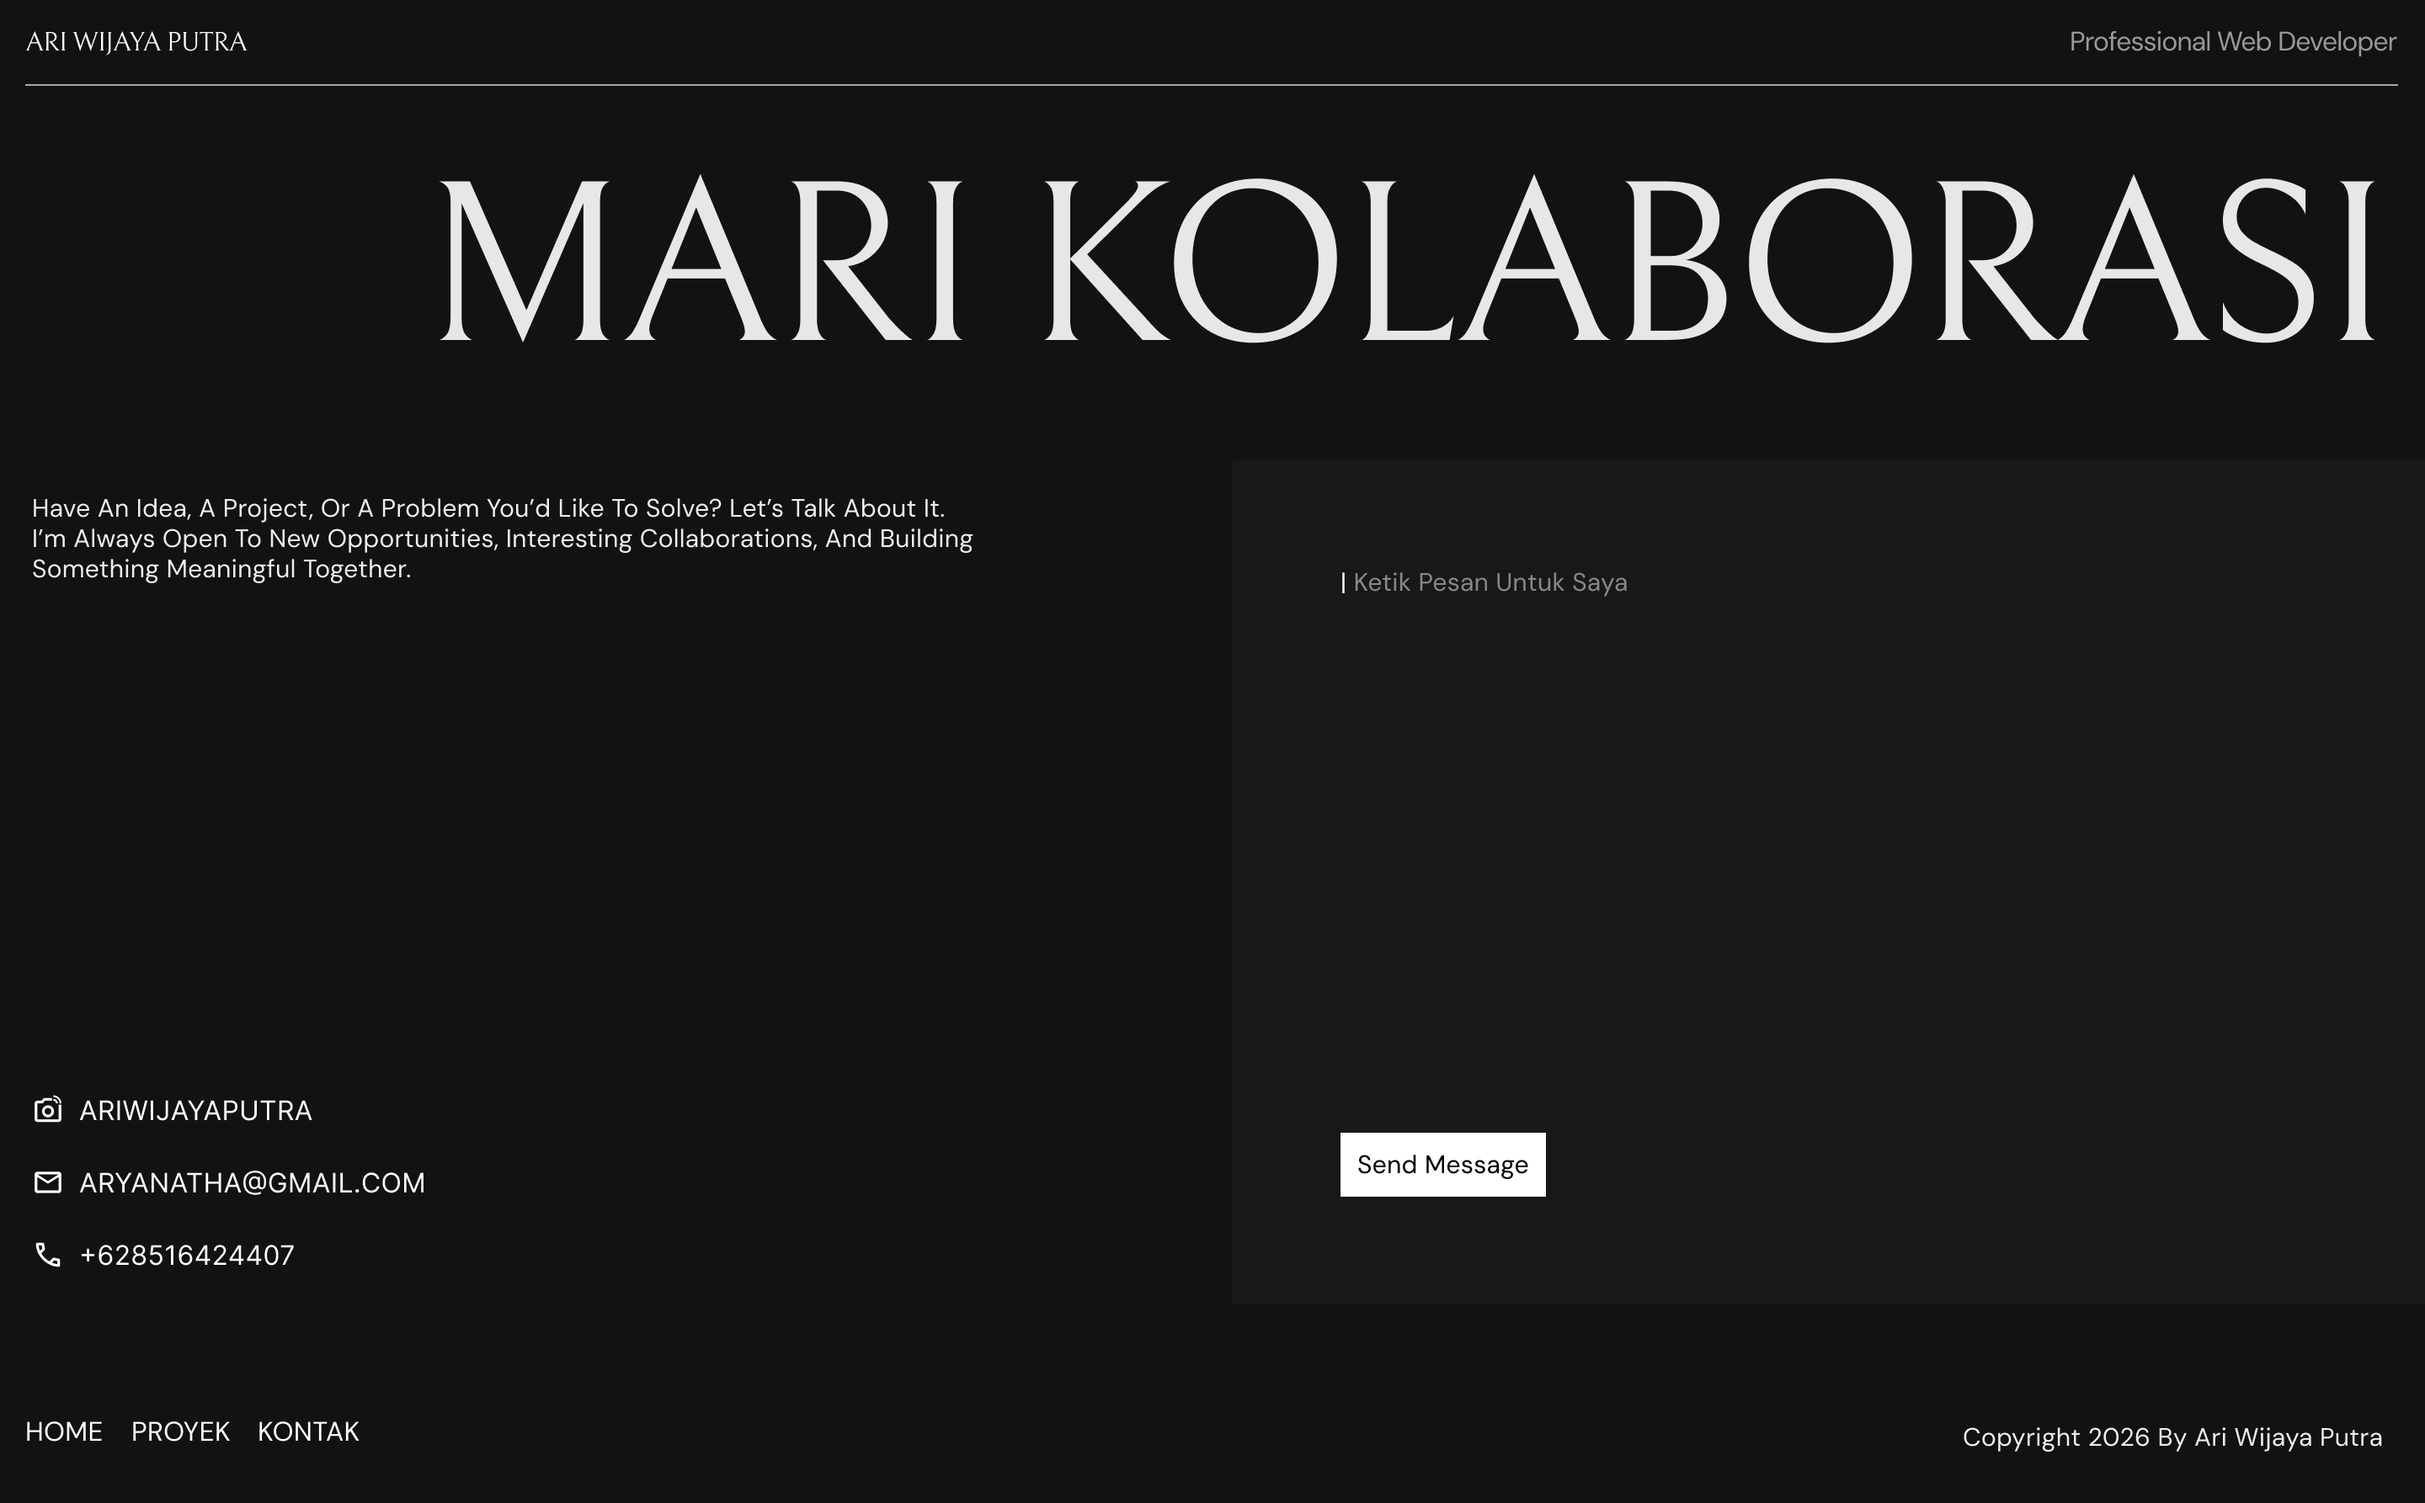
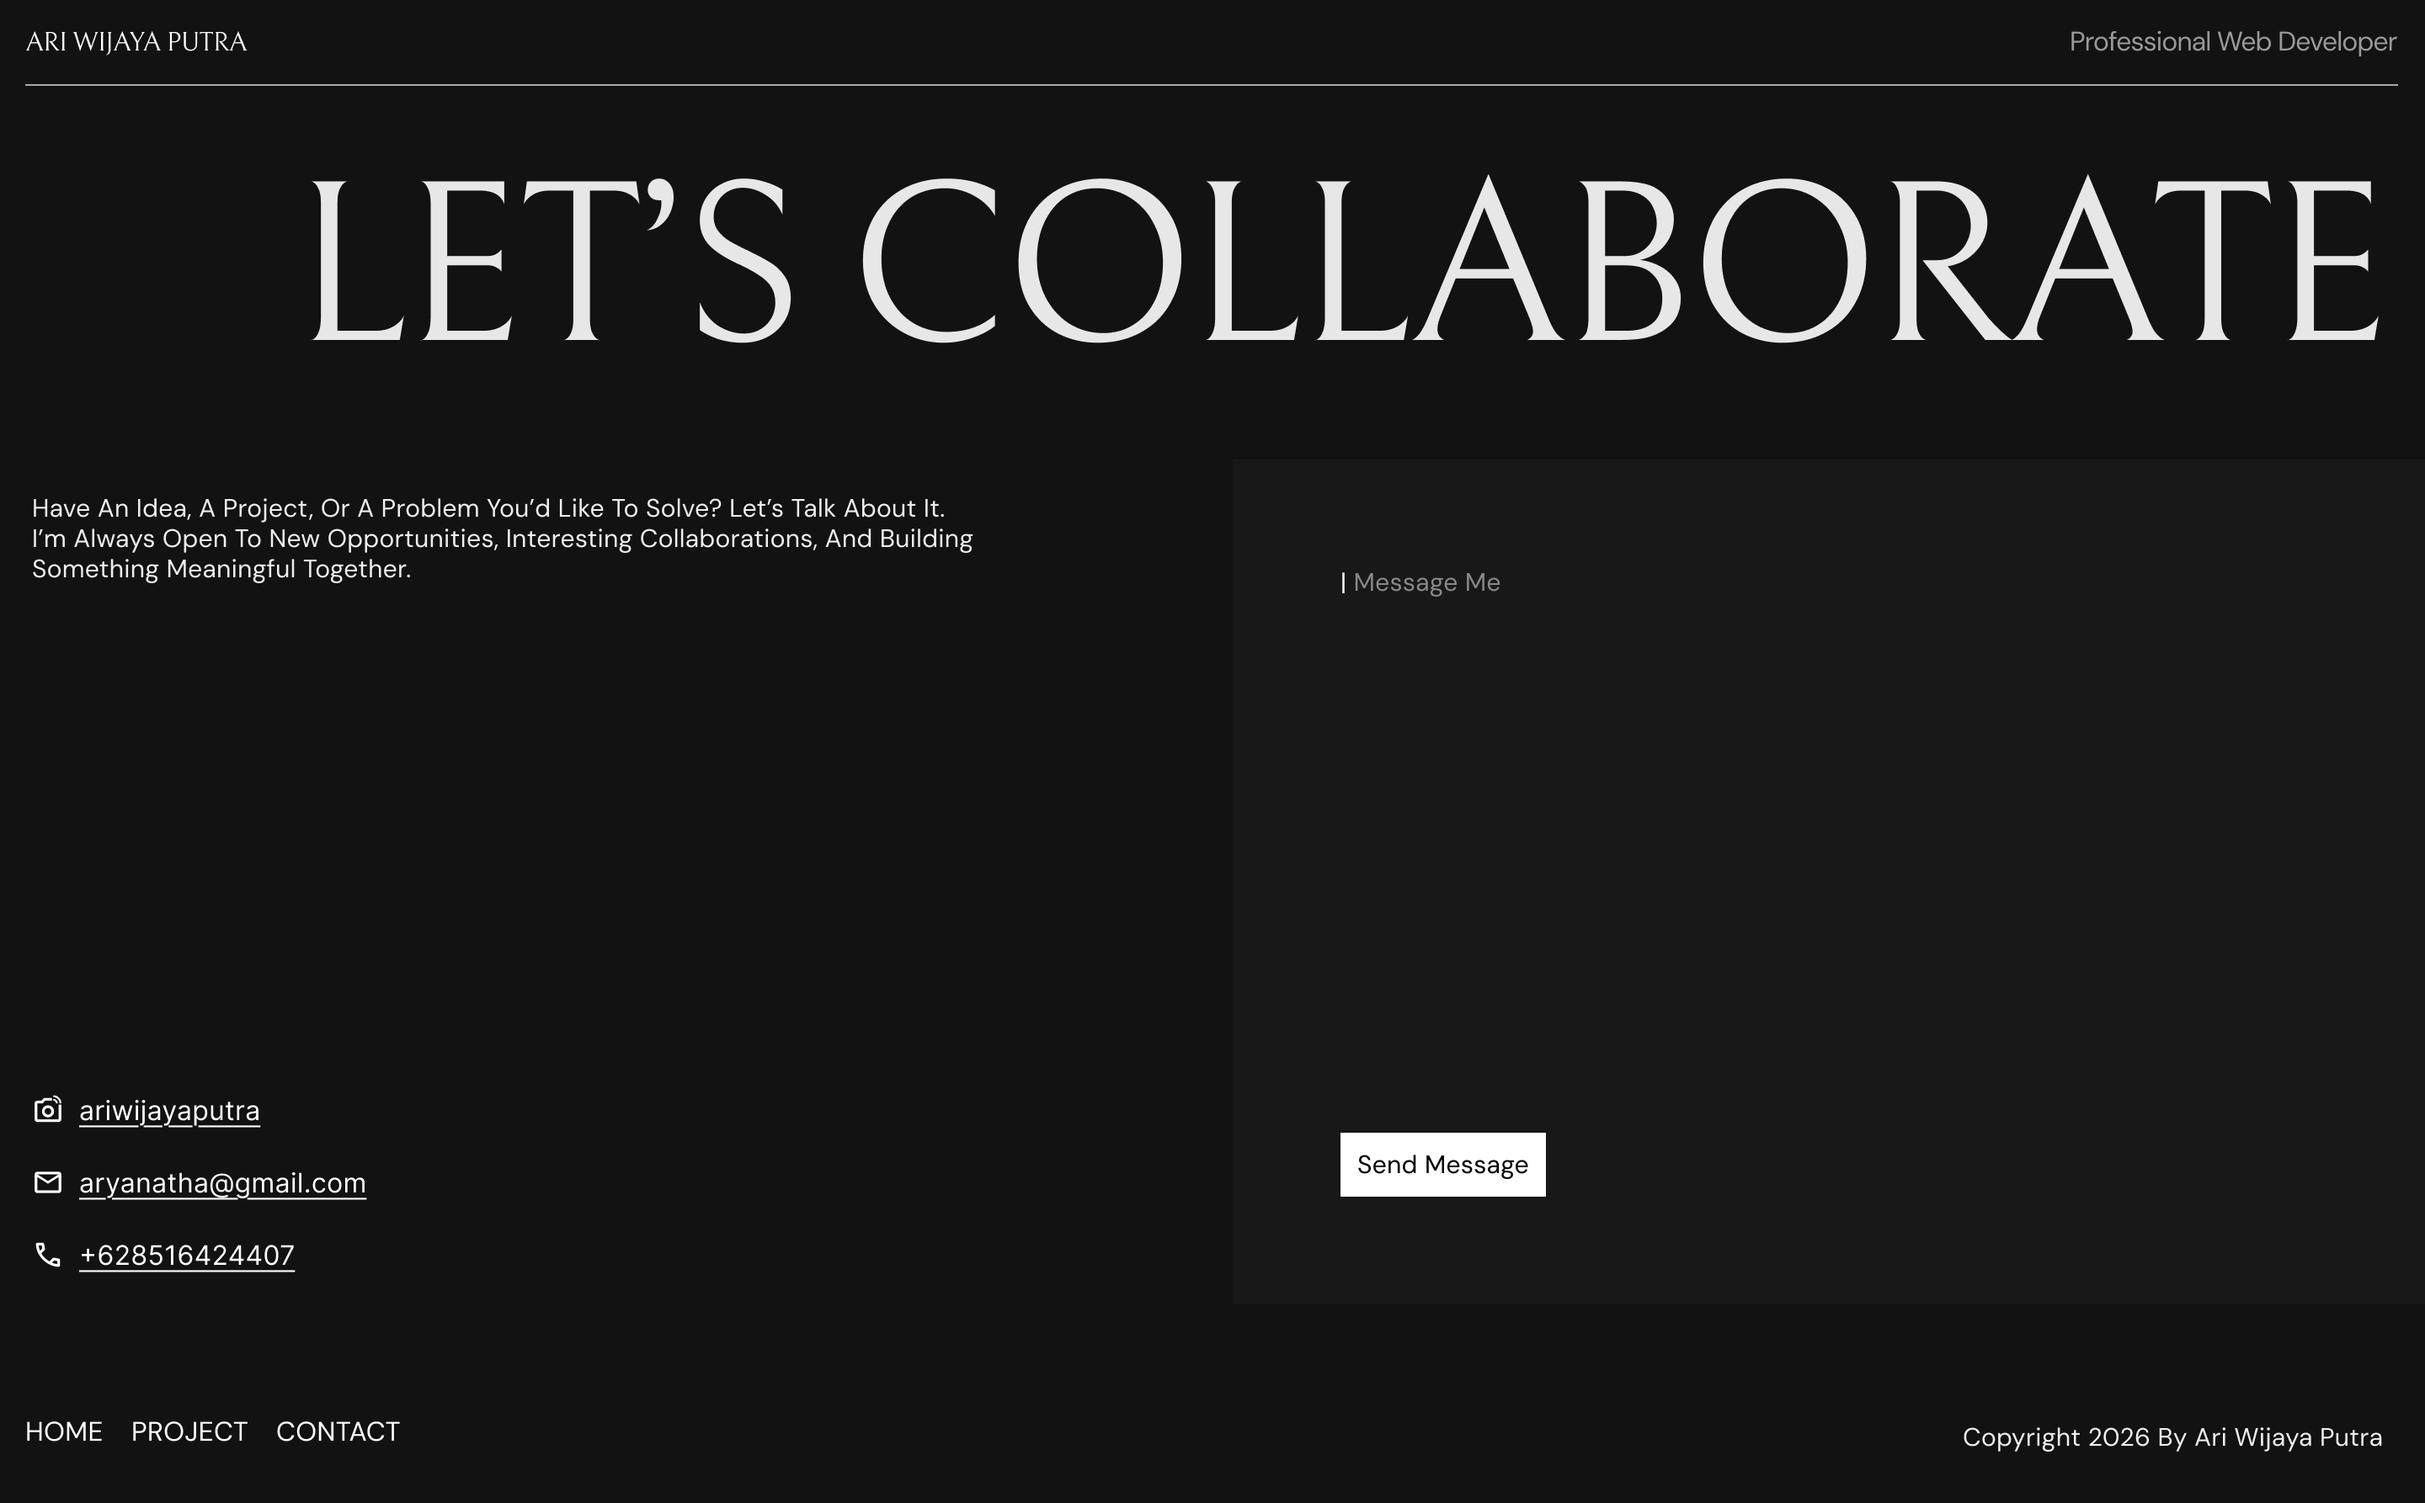
feat: add contact section

diff --git a/components/contact.tsx b/components/contact.tsx
@@ -1,0 +1,117 @@
+const links = [
+  {
+    label: "ariwijayaputra",
+    href: "https://instagram.com/ariwijayaputra",
+    icon: (
+      <>
+        <rect x="3" y="3" width="18" height="18" rx="5" />
+        <circle cx="12" cy="12" r="4" />
+        <path d="M17.5 6.5h.01" />
+      </>
+    ),
+  },
+  {
+    label: "aryanatha@gmail.com",
+    href: "mailto:aryanatha@gmail.com",
+    icon: <path d="M2.5 5h19v14h-19zm0 0 9.5 8 9.5-8" />,
+  },
+  {
+    label: "+628516424407",
+    href: "tel:+628516424407",
+    icon: (
+      <path d="M21.5 16.9v3a2 2 0 0 1-2.2 2 19.8 19.8 0 0 1-8.6-3.1 19.5 19.5 0 0 1-6-6A19.8 19.8 0 0 1 1.6 4.2 2 2 0 0 1 3.6 2h3a2 2 0 0 1 2 1.7c.1.9.4 1.8.7 2.7a2 2 0 0 1-.5 2.1L7.5 9.8a16 16 0 0 0 6 6l1.3-1.3a2 2 0 0 1 2.1-.4c.9.3 1.8.6 2.7.7a2 2 0 0 1 1.7 2z" />
+    ),
+  },
+];
+
+const nav = [
+  { id: "home", label: "Home" },
+  { id: "work", label: "Proyek" },
+  { id: "contact", label: "Kontak" },
+];
+
+// mobile stacks headline / text / form / links / copyright (rows placed explicitly, the
+// left column is display:contents there); desktop puts text + links left, form right
+export default function Contact() {
+  return (
+    <section
+      id="contact"
+      data-snap
+      className="page-grid min-h-(--section-h) grid-rows-[auto_auto_1fr_auto_auto] pt-9 pb-5 text-body lg:grid-rows-[auto_1fr_auto] lg:pt-14 lg:pb-6"
+    >
+      <h2 className="col-span-full font-display text-display uppercase lg:text-right">
+        Mari kolaborasi
+      </h2>
+
+      <div className="contents lg:col-span-5 lg:row-start-2 lg:mt-10 lg:flex lg:flex-col lg:justify-between lg:py-5">
+        <p className="col-span-full row-start-2 mt-10 lg:mt-0">
+          Punya ide, proyek, atau masalah yang ingin dipecahkan? Mari kita
+          bicarakan. Saya selalu terbuka untuk peluang baru, kolaborasi yang
+          menarik, dan membangun sesuatu yang bermakna bersama.
+        </p>
+
+        <address className="col-span-full row-start-4 mt-10 flex flex-col items-start gap-5 text-link text-dim not-italic lg:gap-6 lg:text-paper">
+          {links.map((l) => (
+            <a
+              key={l.href}
+              href={l.href}
+              {...(l.href.startsWith("http") && { target: "_blank", rel: "noreferrer" })}
+              className="flex items-center gap-3 transition-colors hover:text-white"
+            >
+              <svg
+                aria-hidden
+                viewBox="0 0 24 24"
+                fill="none"
+                stroke="currentColor"
+                strokeWidth={1.75}
+                strokeLinecap="round"
+                strokeLinejoin="round"
+                className="size-[1em] shrink-0"
+              >
+                {l.icon}
+              </svg>
+              <span className="underline decoration-1 underline-offset-4">{l.label}</span>
+            </a>
+          ))}
+        </address>
+      </div>
+
+      {/* ponytail: native mailto form, no backend; swap for an API route if a mail client isn't enough.
+          GET + mailto sends the fields as ?subject=&body= (spec encodes spaces as %20) */}
+      <form
+        action="mailto:aryanatha@gmail.com"
+        method="get"
+        className="col-span-full row-start-3 -mr-(--margin) mt-10 flex flex-col gap-5 bg-panel px-(--contact-pad) py-8 text-nav lg:col-span-6 lg:col-start-7 lg:row-start-2 lg:py-16"
+      >
+        <input type="hidden" name="subject" value="Kolaborasi" />
+        <textarea
+          name="body"
+          required
+          aria-label="Pesan"
+          placeholder="Ketik pesan untuk saya"
+          className="min-h-10 flex-1 resize-none bg-transparent text-white caret-white outline-none placeholder:text-mute"
+        />
+        <button
+          type="submit"
+          className="h-10 self-start bg-white px-3 text-ink transition-colors hover:bg-paper"
+        >
+          Kirim Pesan
+        </button>
+      </form>
+
+      <footer className="col-span-full row-start-5 mt-5 grid grid-cols-subgrid items-baseline lg:row-start-3 lg:mt-16">
+        {/* mobile has the bottom bar instead */}
+        <nav aria-label="Navigasi footer" className="hidden gap-4 text-link uppercase lg:col-span-4 lg:flex">
+          {nav.map((n) => (
+            <a key={n.id} href={`#${n.id}`} className="transition-colors hover:text-white">
+              {n.label}
+            </a>
+          ))}
+        </nav>
+        <p className="col-span-full text-mute lg:col-span-4 lg:col-start-9 lg:text-right lg:text-paper">
+          Copyright 2026 By Ari Wijaya Putra
+        </p>
+      </footer>
+    </section>
+  );
+}

diff --git a/app/globals.css b/app/globals.css
@@ -23,6 +23,8 @@
   /* 37px @360; svh cap keeps 3-line titles inside short phones */
   --fs-title: min(10.28vw, 5svh);
   --lh-title: 1.25;
+  --fs-link: clamp(0.75rem, 4.167vw, 1.125rem); /* 15px @360 */
+  --contact-pad: min(13.333vw, 3rem); /* 48px @360, form panel inset */
 
   /* work slider, screenshots are 1368x1004. Mobile: full-width panel with 24px padding @360
      (svh cap for tablets), neighbours peek 20px out from under the navbar / bottom bar */
@@ -59,6 +61,8 @@
     --lh-display: 1.06;
     --fs-title: min(calc(var(--vw) * 4.167), 8svh); /* 60px @1440 */
     --lh-title: 1;
+    --fs-link: max(calc(var(--vw) * 1.389), 1rem); /* 20px @1440 */
+    --contact-pad: calc(var(--vw) * 4.444); /* 64px @1440 */
     --bar-h: 0px;
     /* active panel at most 66svh tall (off-grid on purpose), 54px padding @1440, width capped at 10 cols */
     --work-pad: calc(var(--vw) * 3.75);
@@ -91,6 +95,8 @@
   --text-display--line-height: var(--lh-display);
   --text-title: var(--fs-title);
   --text-title--line-height: var(--lh-title);
+  --text-link: var(--fs-link);
+  --text-link--line-height: 1.125;
   --text-small: var(--fs-small);
   --text-small--line-height: 1.2;
 

diff --git a/app/page.tsx b/app/page.tsx
@@ -1,4 +1,5 @@
 import Bottombar from "@/components/bottombar";
+import Contact from "@/components/contact";
 import Navbar from "@/components/navbar";
 import SnapScroll from "@/components/snap-scroll";
 import Work from "@/components/work";
@@ -41,6 +42,7 @@ export default function Home() {
         </section>
 
         <Work />
+        <Contact />
       </main>
       <Bottombar />
     </>
